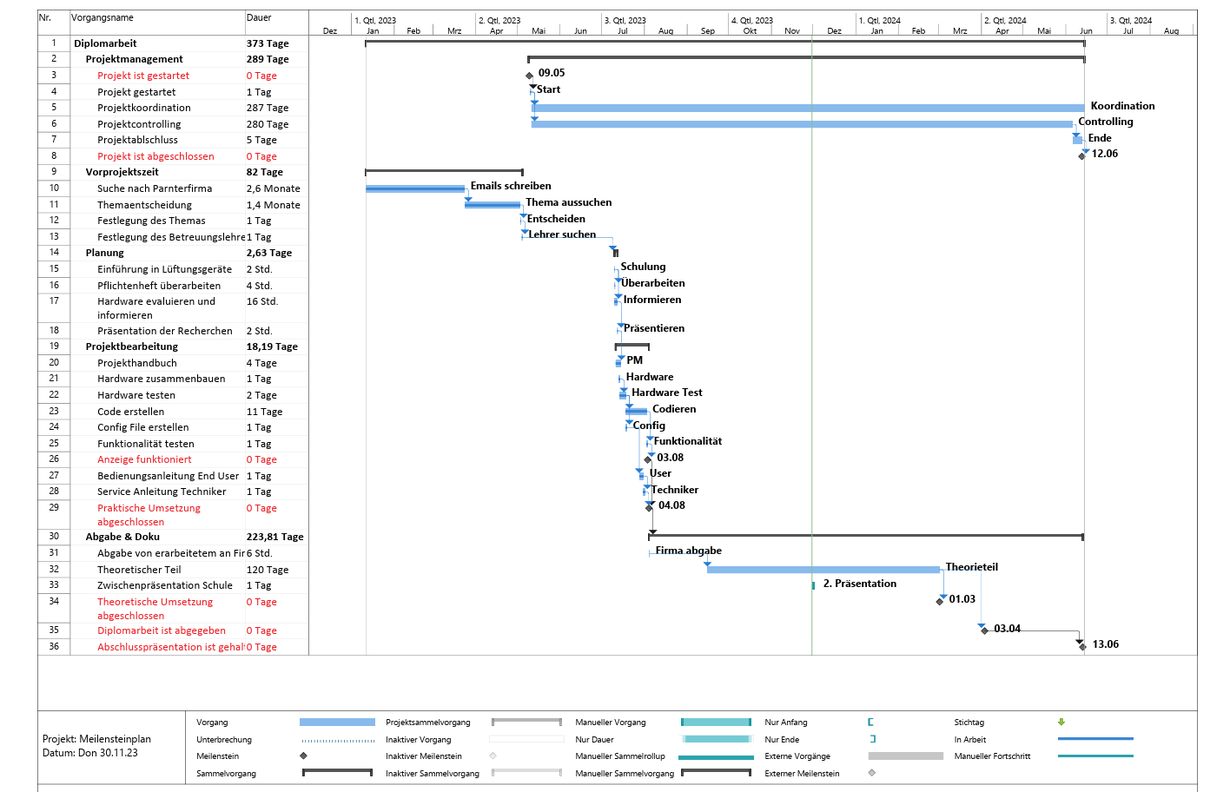
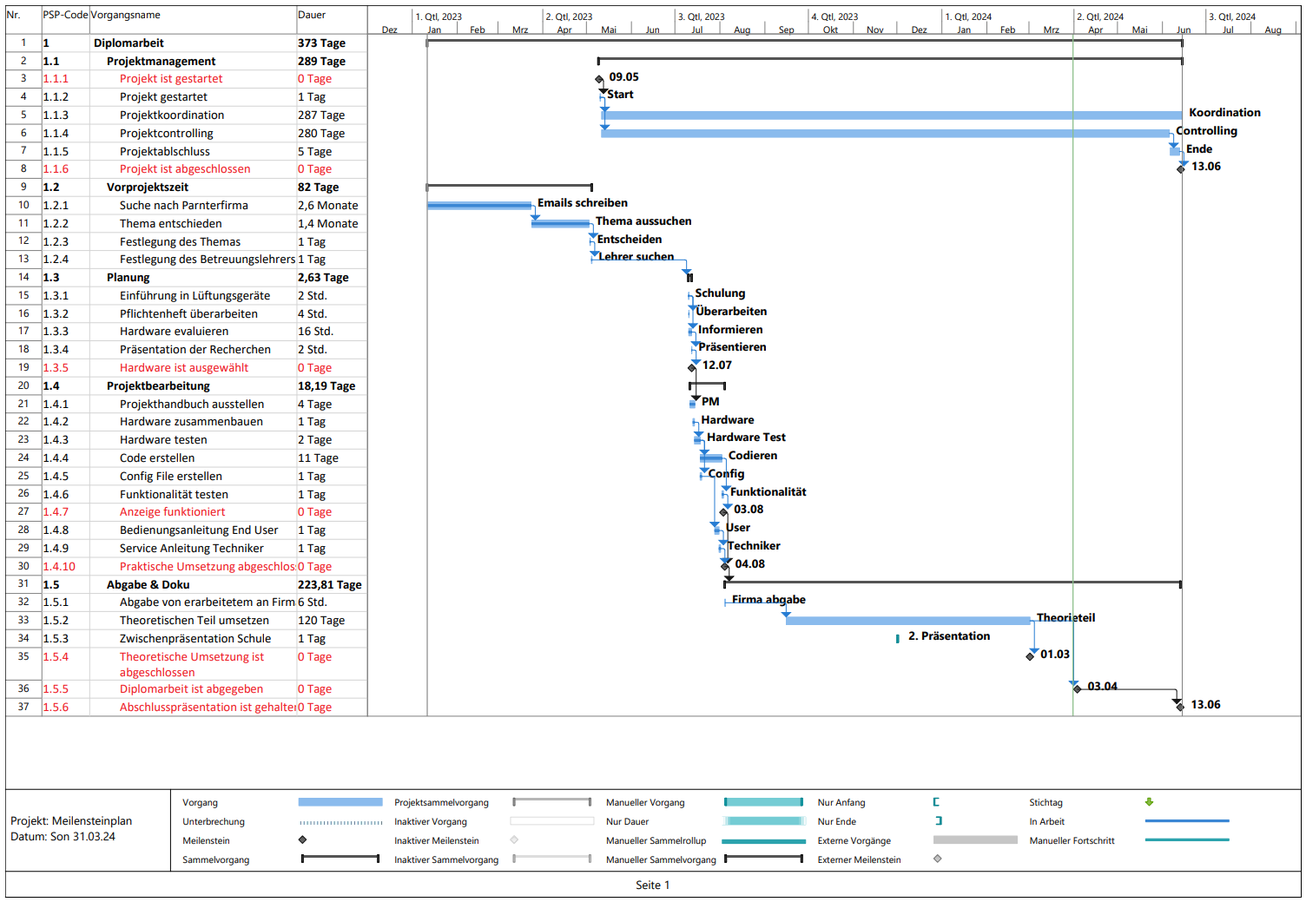
überarbeitung

Changed region(s): [[0.0, 0.0, 1.0, 1.0], [0.6525, 0.7675, 0.6836, 0.7982]]

diff --git a/hw_evaluation.tex b/hw_evaluation.tex
@@ -1,11 +1,11 @@
-\subsection{Evaluierung} \label{evaluierung}
-Damit die Ausarbeitung beginnen kann, muss eine gute Kombination für die zukünftigen Hardware-Komponenten zusammengestellt werden. Diese Kombination sollte auf den Spezifikationen basieren, die vom Projektbetreuer Simon Köldorfer definiert wurden. Diese Spezifikationen umfassen die grundsätzliche Verwendung eines Displays, die IP66-Tauglichkeit des Gehäuses, die Witterungstauglichkeit der Anzeige sowie die Möglichkeit, die Anzeigeseite zu ändern, wobei nicht spezifiziert ist, wie dies umgesetzt werden soll. Die Spannungsversorgung muss außerdem als 24V AC/DC ausgeführt sein. Schließlich sollte die Lösung auch wirtschaftlich sinnvoll sein, falls das Unternehmen entscheidet, diese Anzeige fortan an mehreren oder sogar allen Lüftungsgeräten anzubringen. Die genaueren Spezifikationen befinden sich im Kapitel \ref{aufgabenstellung}.\\
-Trotz dieser Definitionen blieb genug Freiheit, um mehrere Möglichkeiten zusammenzustellen und somit dem nachzugehen, was für diese Diplomarbeit am passendsten ist. 
+\subsection{Evaluation} \label{evaluierung}
+Damit die Ausarbeitung beginnen kann, muss eine gute Kombination für die zukünftigen Hardware-Komponenten zusammengestellt werden. Diese Kombination sollte auf den Spezifikationen basieren, die vom Projektbetreuer Simon Köldorfer definiert wurden. Diese Spezifikationen umfassen die grundsätzliche Verwendung eines Displays, die IP66-Tauglichkeit des Gehäuses sowie die Möglichkeit, die Anzeigeseite zu ändern, wobei nicht spezifiziert ist, wie dies umgesetzt werden soll. Die Spannungsversorgung muss außerdem als 24V AC/DC ausgeführt sein. Schließlich sollte die Lösung auch wirtschaftlich sinnvoll sein, falls das Unternehmen entscheidet, diese \acs{rltanzeige} fortan an mehreren oder sogar allen \acsp{rltanlage} anzubringen. Die genaueren Spezifikationen befinden sich in Kapitel \ref{aufgabenstellung}.\\
+Trotz dieser Definitionen bleibt genug Freiheit, um mehrere Möglichkeiten zusammenzustellen und somit dem nachzugehen, was für dieses Projekt am passendsten ist. 
 Folgend werden alle vier Varianten gelistet, die später auch so innerhalb eines Meetings dem Projektbetreuer näher gebracht wurden. \\
-Allgemein zu sagen ist, dass die angegebenen Preise möglicherweise von der Realität etwas abweichen können. Auch, dass die Schwierigkeit der Umsetzungen jeweils bei einem akzeptablen Level liegt und bei allen Varianten die Terminierung oder die Weiterleitung des Modbus-Signals ein Problem sein könnte.
+Allgemein ist zu sagen, dass die angegebenen Preise möglicherweise von der Realität etwas abweichen können. Auch, dass die Schwierigkeit der Umsetzungen jeweils bei einem akzeptablen Niveau liegt und bei allen Varianten die Terminierung oder die Weiterleitung des Modbus-Signals ein Problem sein könnte.
 \paragraph{Variante A}
-Die erste Variante beinhaltet als einzige den Mikrocontroller Arduino. Genauer gesagt handelt es sich um den Arduino Mega. Unter Abbildung \ref{fig:arduino_mega} findet man eine Darstellugn davon. Bei dieser Variante ist die Grundidee, ein kleines 3.5-Zoll Display mit 1-2 Buttons herzustellen und alles in einer IP66 tauglichen, kleinen Box zu verstauen. 
-Die positiven Aspekte dieser Variante beziehen sich sowohl auf den Preis als auch auf die Verfügbarkeit der Teile. Variante A hat mit Abstand den niedrigsten Gesamtpreis, dieser liegt bei ungefähr 63,00€ und die Verfügbarkeit ist stets gegeben. Auch die Haltbarkeit ist ein positiver Aspekt, da jegliche Witterungen dem Gehäuse nichts ausmachen, und im Fall, dass es doch kaputtgeht, es leicht und günstig zu ersetzen ist. Schwierigkeiten existieren jedoch beispielsweise bei der Benutzerfreundlichkeit, da die Bedienung mit 2 Buttons komplizierter bzw. umfangreicher ist als mit einem. Auch bei den Dokumentationen mangelt es etwas, denn während ausreichend Dokumentationen über die Hardware zur Verfügung steht, sind die Dokumentationen über die Software bzw. über die Libraries eher kurz gehalten, wie beispielsweise bei der Library \enquote{ModbusMaster}.
+Die erste Variante beinhaltet als einzige den Arduino Mikrocontroller. Genauer gesagt handelt es sich um den Arduino Mega (siehe Abb. \ref{fig:arduino_mega}). Bei dieser Variante ist die Grundidee, ein kleines 3,5-Zoll Display mit 1-2 Tastern herzustellen und alles in einer IP66 tauglichen, kleinen Box zu verstauen. 
+Die positiven Aspekte dieser Variante beziehen sich sowohl auf den Preis als auch auf die Verfügbarkeit der Teile. Variante A hat mit Abstand den niedrigsten Gesamtpreis, dieser liegt bei ungefähr 63,00€ und die Verfügbarkeit ist stets gegeben. Auch die Haltbarkeit ist ein positiver Aspekt, da jegliche Witterungen dem Gehäuse nichts ausmachen, und im Fall, dass es doch kaputt geht, es leicht und günstig zu ersetzen ist. Schwierigkeiten existieren jedoch beispielsweise bei der Benutzerfreundlichkeit, da die Bedienung mit 2 Tastern komplizierter bzw. umfangreicher als mit einem ist. Auch bei den Dokumentationen mangelt es etwas, denn während ausreichend Dokumentationen über die Hardware zur Verfügung steht, sind die Dokumentationen über die Software bzw. über die Bibliotheken eher kurz gehalten, wie beispielsweise bei der Bibliothek \enquote{ModbusMaster}.
 \begin{figure}[ht]
 	\centering
 	\includegraphics[width=0.5\linewidth]{Bilder/ARDUINO_MEGA.jpg}
@@ -13,8 +13,8 @@ Die positiven Aspekte dieser Variante beziehen sich sowohl auf den Preis als auc
 	\label{fig:arduino_mega}
 \end{figure}
 \paragraph{Variante B}
-Variante B hat als Grundkonzept ein 7-Zoll-Display, welches nicht berührungsempfindlich ist und auch nicht wasserfest, und deswegen wie in Variante A in eine witterungsfeste Box gelegt und durch Buttons gesteuert wird. Neben den unterschiedlichen Bildschirmgrößen unterscheidet auch der verwendete Mikrocontroller die beiden Kombinationen, denn hier wird ein Raspberry PI als Zentralrechner etabliert. Eine Abbildung davon ist in Abbildung \ref{fig:raspi3} zu sehen.\\
-Der Gesamtpreis der Hardware liegt bei ungefähr 93.00€ und ist somit auch noch eine der günstigeren Versionen. Für diese Variante sprechen aber noch andere Faktoren. Einerseits die erhöhte Benutzerfreundlichkeit im Vergleich zur Variante A, denn auch wenn wieder Buttons für die Navigation verwendet werden, erleichtert das größere Display die Übersicht. Andererseits die Witterungsfestigkeit aufgrund des Gehäuses, welches bei Schäden leicht und günstig zu ersetzen ist. Auch Dokumentationen sind ausreichend für Hardware und Software vorhanden. Die Probleme hierbei beziehen sich jedoch auf die Verfügbarkeit des Raspberry PIs, da diese in letzter Zeit entweder wenig verfügbar oder teuer sind. Der Display-Preis ist zwar auch nicht niedrig, kann aber durch Mengenrabatte reduziert werden.
+Variante B hat als Grundkonzept ein 7-Zoll Display, welches nicht berührungsempfindlich ist und auch nicht wasserfest, und deswegen wie in Variante A in eine witterungsfeste Box gelegt und durch Taster gesteuert wird. Neben den unterschiedlichen Bildschirmgrößen unterscheidet auch der verwendete Mikrocontroller die beiden Kombinationen, denn hier wird ein Raspberry PI als Zentralrechner etabliert (siehe Abb. \ref{fig:raspi3}).\\
+Der Gesamtpreis der Hardware liegt bei ungefähr 93.00€ und ist somit auch noch eine der günstigeren Versionen. Für diese Variante sprechen aber noch andere Faktoren. Einerseits die erhöhte Benutzerfreundlichkeit im Vergleich zur Variante A, denn auch wenn wieder Taster für die Navigation verwendet werden, erleichtert das größere Display die Übersicht. Andererseits die Witterungsfestigkeit aufgrund des Gehäuses, welches bei Schäden leicht und günstig zu ersetzen ist. Auch Dokumentationen sind ausreichend für Hardware und Software vorhanden. Die Probleme hierbei beziehen sich jedoch auf die Verfügbarkeit des Raspberry PIs, da diese in letzter Zeit entweder wenig verfügbar oder teuer sind. Der Display-Preis ist zwar auch nicht niedrig, kann aber durch Mengenrabatte reduziert werden.
 \begin{figure}[ht]
 	\centering
 	\includegraphics[width=0.6\linewidth]{Bilder/RASPBERRY_PI3.png}
@@ -22,7 +22,7 @@ Der Gesamtpreis der Hardware liegt bei ungefähr 93.00€ und ist somit auch noc
 	\label{fig:raspi3}
 \end{figure}
 \paragraph{Variante C}
-Die dritte Variante ist die mit Abstand teuerste, denn hier liegt der Preis bei etwa 117,00€. Der Grund dafür ist, dass die Konzeption aus einem \gls{kapazitiv}n 7-Zoll-Display besteht. Dieses wird unter Abbildung \ref{fig:kapazitives_display} abgebildet. Neben der eigentlich nicht gegebenen Witterungsfestigkeit des Displays per se, wird es jedoch so verbaut, dass diese Eigenschaft trotzdem gegeben ist. Dennoch kann sich möglicherweise die Handhabung der Touchfunktion mit der Zeit aufgrund fehlender Wasserfestigkeit verschlechtern. Da auch hier wieder der Raspberry PI die Grundlage des Systems spielt, ist auch wieder die Verfügbarkeit dessen unpassend. Positive Aspekte sind allgemein die Touchfunktion, da diese weit verbreitet ist und die Bedienung für den Nutzer einfach hält. Ebenso gibt es ausreichend Dokumentationen für Hardware und Software, trotzdem kann die Implementation der Touch-Funktion Probleme bereiten.
+Die dritte Variante ist die mit Abstand teuerste, denn hier liegt der Preis bei etwa 117,00€. Der Grund dafür ist, dass die Konzeption aus einem \gls{kapazitiv}n 7-Zoll Display besteht (siehe Abb. \ref{fig:kapazitives_display}). Neben der eigentlich nicht gegebenen Witterungsfestigkeit des Displays per se, wird es jedoch so verbaut, dass diese Eigenschaft trotzdem gegeben ist. Dennoch kann sich möglicherweise die Handhabung der Touchfunktion mit der Zeit aufgrund fehlender Wasserfestigkeit verschlechtern. Da auch hier wieder der Raspberry PI die Grundlage des Systems spielt, ist auch wieder die Verfügbarkeit dessen unpassend. Positive Aspekte sind allgemein die Touchfunktion, da diese weit verbreitet ist und die Bedienung für den Nutzer einfach hält. Ebenso gibt es ausreichend Dokumentationen für Hardware und Software, trotzdem kann die Implementation der Touch-Funktion Probleme bereiten.
 \begin{figure}[ht]
 	\centering
 	\includegraphics[width=0.6\linewidth]{Bilder/kapazitives_display.jpg}
@@ -31,17 +31,17 @@ Die dritte Variante ist die mit Abstand teuerste, denn hier liegt der Preis bei 
 \end{figure}
 \newpage
 \paragraph{Variante D}
-Die vierte und letzte Variante charakterisiert sich durch eine weitere Nutzung eines \gls{kapazitiv}n oder diesmal auch \gls{resistiv}n 7-Zoll-Displays, welches nicht wasserdicht ist. Der Zugriff zum Display erfolgt durch eine transparente Klappe am Gehäuse. Eine Abbildung dieses Gehäuses befindet sich unter Abbildung \ref{fig:gehäuse_mit_klappe}. Auch hier wird der Raspberry PI als Mikrocontroller verwendet, welches auf zuvor genannte Probleme bezüglich der Verfügbarkeit zurückführt. Das Display zu erhalten führt zu keinen Schwierigkeiten und man erhält auch wieder einen Mengenrabatt. Nichtsdestotrotz liegt der Gesamtpreis bei ungefähr 108,00€ und ist somit eine der teureren Zusammenstellungen. Dafür stellen Witterungsprobleme keine Erschwernisse dar, solange nicht vergessen wird, die Klappe am Gehäuse immer ordnungsgemäß zu schließen. Die Situation mit den Dokumentationen ist äquivalent zu Variante B und C und somit auch kein Problem. Zurückkehrend auf die unterschiedlichen Displays: Die \gls{kapazitiv} Version hat eine allgemein besser funktionierende Touch-Funktion, die aber durch nasse Hände genommen wird und somit die Nutzung bei beispielsweise Regen erschwert wird. Die \gls{resistiv} Version ermöglicht dafür eine besseren Reaktionsfähigkeit bei nassen Händen oder sogar beim Tragen von Handschuhen.
+Die vierte und letzte Variante charakterisiert sich durch eine weitere Nutzung eines \gls{kapazitiv}n oder diesmal auch \gls{resistiv}n 7-ZollDisplays, welches nicht wasserdicht ist. Der Zugriff zum Display erfolgt durch eine transparente Klappe am Gehäuse (siehe Abb.  \ref{fig:gehäuse_mit_klappe}). Auch hier wird der Raspberry PI als Mikrocontroller verwendet, welches auf zuvor genannte Probleme bezüglich der Verfügbarkeit zurückführt. Das Display zu erhalten führt zu keinen Schwierigkeiten und es ist auch wieder ein Mengenrabatt gegeben. Nichtsdestotrotz liegt der Gesamtpreis bei ungefähr 108,00€ und ist somit eine der teureren Zusammenstellungen. Dafür stellen Witterungsprobleme keine Erschwernisse dar, solange nicht vergessen wird, die Klappe am Gehäuse immer ordnungsgemäß zu schließen. Die Situation mit den Dokumentationen ist äquivalent zu Variante B und C und somit auch kein Problem. Zurückkehrend auf die unterschiedlichen Displays: Die \gls{kapazitiv} Version hat eine allgemein besser funktionierende Touch-Funktion, die aber durch nasse Hände beeinträchtigt wird und somit die Nutzung bei Regen erschwert. Die \gls{resistiv} Version ermöglicht dafür eine besseren Reaktionsfähigkeit bei nassen Händen oder sogar beim Tragen von Handschuhen.
 \begin{figure}[ht]
 	\centering
-	\includegraphics[width=0.6\linewidth]{Bilder/gehäuse_klappe.png}
+	\includegraphics[width=0.5\linewidth]{Bilder/gehäuse_klappe.png}
 	\caption{Gehäuse mit Klappe (Quelle: \url{https://asset.conrad.com/media10/isa/160267/c1/-/de/706888_BB_00_FB/image.jpg?x=1000&y=1000&format=jpg&ex=1000&ey=1000&align=center})}
 	\label{fig:gehäuse_mit_klappe}
 \end{figure}
 \newpage
 \paragraph{Bewertungsmatrix}
 
-Um eine umfassende Übersicht über die potenziell verfügbaren Varianten sowie ihre spezifischen Merkmale sicherzustellen, wurde eine detaillierte Bewertungsmatrix in Excel erstellt. Diese Matrix befindet sich auf der nächsten Seite unter Abbildung \ref{fig:matrix}.
+Um eine umfassende Übersicht über die potenziell verfügbaren Varianten sowie ihre spezifischen Merkmale sicherzustellen, wurde eine detaillierte Bewertungsmatrix in Excel erstellt (siehe Abb. \ref{fig:matrix}).
 \begin{landscape}
 	\begin{figure}[H]
 		\centering

diff --git a/probleme.tex b/probleme.tex
@@ -2,9 +2,9 @@ Eine Normalität während der Ausarbeitung eines Projektes sind auftretende Prob
 
 \begin{enumerate}
 
-	\item \textbf{Hardware:} Nachdem die Hardwareevaluierung abgeschlossen und die Entscheidung dem Projektbetreuer Simon Köldorfer mitgeteilt wurde, wurde dem Team eine Anzahl an Raspberry PIs, SD-Karten und ein Display zur Verfügung gestellt, um bereits während des Wartens auf die eigentlichen Komponenten, mit teilweise erhöhten Lieferzeiten, bereits arbeiten zu können. Relativ schnell wurde festgestellt, dass auf der einen SD-Karte nur eine veraltete Version von Python installierbar war und auf der anderen die Python-Version zwar auf die derzeit neueste aktualisiert werden konnte, aber das Display aus unbekannten Gründen nicht damit kompatibel war. Da nun die SD-Karte mit der veralteten Version ausgeschlossen wurde, musste eine Lösung für die andere gefunden werden. Mit der Applikation \enquote{Real VNC Viewer} konnte, ohne Verwendung des Displays, auf den Raspberry PI zugegriffen werden. So wurde mit dem Programm als Anzeigelösung gearbeitet, bis das eigentlich gewünschte Display die Firma erreicht und auch funktionierende SD-Karten zur Verfügung standen. Nach wenigen Tagen wurde dann ein weiteres Problem bemerkt, denn der Raspberry PI konnte übergangslos keine WLAN-Verbindung mehr herstellen. Dies zwang dazu, auf eine außergewöhnliche Methode umzusteigen, damit der Zugriff auf den Raspberry PI gewährt werden konnte. Durch die Verwendung mehrerer Ethernetkabel, die mit dem Mikrocontroller, den Laptops und einem Switch verbunden wurden, konnte der Zugriff mittels des Programmes \enquote{PuTTy} gewährt werden.
-	\item \textbf{Lieferung der Komponenten:} Bevor die gewünschte und erwartete Hardware in der Firma eintraf, wurde der Code bereits passend für das eigentlich bestellte Display geschrieben. Aufgrund von Komplikationen konnte besagtes Gerät nicht beschaffen werden, was dazu führte, dass der Code vollständig überarbeitet werden musste. Zudem wurde das neue Display über \ac{hdmi} an den Paspberry PI angeschlossen und nicht über \ac{gpio}, wie es bei dem gewünschten Display gewesen wäre. Diese unerwarteten Veränderungen haben die Entwicklungszeit verlängert und erforderten zusätzliche Anpassungen.
-	\item \textbf{Modbus-Auslesung:} Ein weiteres Problem wurde bei der Auslesung der Modbus-Daten festgestellt. Obwohl das Lesen der Temperatur- und Drucksensoren schnell und akkurat sowohl in \enquote{Shortbus} als auch im Code funktionierte, wurde ein Hindernis bei den Ventilatoren angetroffen, da hier hexadezimale Zahlen bei den Modbusregistern verwendet wurden und somit auch im eben genannten Programm einige Einstellungen geändert werden mussten. Nach langer Suche nach den richtigen Einstellungen konnte nun endlich ein weiterer Erfolg verzeichnet werden. Als dann der Code am Lüftungsgerät ausprobiert wurde, stieß man auf ein weiteres Problem in dieser Thematik. Im Code befand sich fälschlicherweise eine Zeile, die zwar passend für Druck- und Temperatursensoren war, aber nicht für die Ventilatoren. Bevor diese Zeile gefunden wurde und der Code sowie die Datenauslesung einwandfrei funktionieren konnten, wurde die Suche vergebens nach neuen Modbus-Libraries gestartet.
-	\item \textbf{Modbus-Adapter und Gehäuse:} Im Zusammenhang mit der Hardware traten zwei zusätzliche Probleme auf, die den Abschluss des praktischen Teils verzögerten. Aufgrund von Lieferschwierigkeiten mit dem Display wurde eine Alternative beschafft, die jedoch ebenfalls Komplikationen mit sich brachte, da sie seitlich statt unten angeschlossen wurde. Dies führte dazu, dass das zuvor ausgewählte Gehäuse zu klein war. Die Firma Bösch entschied sich, das richtige Gehäuse selbst per 3D-Drucker herzustellen. Zudem gab es eine Herausforderung mit dem RS485-Adapter für den Raspberry Pi, welche erst bei der Rückkehr in die Firma nach Beendigung des Praktikums gelöst werden konnte, indem andere Adapter dieser Art getestet wurden.
+	\item \textbf{Hardware:} Nachdem die Hardwareevaluierung abgeschlossen und die Entscheidung dem Projektbetreuer Simon Köldorfer mitgeteilt wurde, wurde dem Team eine Anzahl an Raspberry PIs, SD-Karten und ein Display zur Verfügung gestellt, um bereits während des Wartens auf die eigentlichen Komponenten, mit teilweise erhöhten Lieferzeiten, bereits arbeiten zu können. Relativ schnell wurde festgestellt, dass auf der einen SD-Karte nur eine veraltete Version von \gls{gls_python} installierbar war und auf der anderen die \gls{gls_python}-Version zwar auf die derzeit neueste aktualisiert werden konnte, aber das Display aus unbekannten Gründen nicht damit kompatibel war. Da nun die SD-Karte mit der veralteten Version ausgeschlossen wurde, musste eine Lösung für die andere gefunden werden. Mit der Applikation \enquote{Real \gls{gls_vnc} Viewer} konnte, ohne Verwendung des Displays, auf den Raspberry PI zugegriffen werden. So wurde mit dem Programm als Anzeigelösung gearbeitet, bis das eigentlich gewünschte Display die Firma erreicht und auch funktionierende SD-Karten zur Verfügung standen. Nach wenigen Tagen wurde dann ein weiteres Problem bemerkt, denn der Raspberry PI konnte übergangslos keine WLAN-Verbindung mehr herstellen. Dies zwang dazu, auf eine außergewöhnliche Methode umzusteigen, damit der Zugriff auf den Raspberry PI gewährt werden konnte. Durch die Verwendung mehrerer Ethernetkabel, die mit dem Mikrocontroller, den Laptops und einem Switch verbunden wurden, konnte der Zugriff mittels des Programmes \enquote{PuTTy} gewährt werden.
+	\item \textbf{Lieferung der Komponenten:} Bevor die gewünschte und erwartete Hardware in der Firma eintraf, wurde der Code bereits passend für das eigentlich bestellte Display geschrieben. Aufgrund von Komplikationen konnte besagtes Gerät nicht beschaffen werden, was dazu führte, dass der Code vollständig überarbeitet werden musste. Zudem wurde das neue Display über \ac{hdmi} an den Raspberry PI angeschlossen und nicht über \ac{gpio}, wie es bei dem gewünschten Display gewesen wäre. Diese unerwarteten Veränderungen haben die Entwicklungszeit verlängert und erforderten zusätzliche Anpassungen.
+	\item \textbf{\gls{modbus}-Auslesung:} Ein weiteres Problem wurde bei der Auslesung der \gls{modbus}-Daten festgestellt. Obwohl das Lesen der Temperatur- und Drucksensoren schnell und akkurat sowohl in \enquote{Shortbus} als auch im Code funktionierte, wurde ein Hindernis bei den Ventilatoren angetroffen, da hier hexadezimale Zahlen bei den Modbusregistern verwendet wurden und somit auch im eben genannten Programm einige Einstellungen geändert werden mussten. Nach langer Suche nach den richtigen Einstellungen konnte nun endlich ein weiterer Erfolg verzeichnet werden. Als dann der Code am Lüftungsgerät ausprobiert wurde, stieß man auf ein weiteres Problem in dieser Thematik. Im Code befand sich fälschlicherweise eine Zeile, die zwar passend für Druck- und Temperatursensoren war, aber nicht für die Ventilatoren. Bevor diese Zeile gefunden wurde und der Code sowie die Datenauslesung einwandfrei funktionieren konnten, wurde die Suche vergebens nach neuen \gls{modbus}-Bibliotheken gestartet.
+	\item \textbf{\gls{modbus}-Adapter und Gehäuse:} Im Zusammenhang mit der Hardware traten zwei zusätzliche Probleme auf, die den Abschluss des praktischen Teils verzögerten. Aufgrund von Lieferschwierigkeiten mit dem Display wurde eine Alternative beschafft, die jedoch ebenfalls Komplikationen mit sich brachte, da sie seitlich statt unten angeschlossen wurde. Dies führte dazu, dass das zuvor ausgewählte Gehäuse zu klein war. Die Firma Bösch entschied sich, das richtige Gehäuse selbst per 3D-Drucker herzustellen. Zudem gab es eine Herausforderung mit dem \gls{gls_rs485}-Adapter für den Raspberry Pi, welche erst bei der Rückkehr in die Firma nach Beendigung des Praktikums gelöst werden konnte, indem andere Adapter dieser Art getestet wurden.
 	\item \textbf{Kommunikation:} Dadurch, dass das Pflichtenheft nicht direkt von Anfang an sorgfältig bearbeitet und unterschrieben wurde, konnte nicht verhindert werden, dass in internen Meetings weitere Spezifikationen und Anforderungen an das Projekt hinzugefügt wurden, welche zusätzlichen Aufwand und Verzögerungen mit sich brachten. Bezüglich Meetings hätte auch das Design-Meeting viel früher passieren müssen, denn es wurde erst im späteren Projektverlauf klar, welche Werte tatsächlich auf dem Display angezeigt werden sollten. Beide genannten Punkte hätten vermieden werden könne, wenn die Kommunikation mit dem Projektbetreuer aktiver gewesen wäre.
 \end{enumerate}

diff --git a/hw_selektion.tex b/hw_selektion.tex
@@ -3,12 +3,12 @@
 Die im Kapitel \ref{evaluierung} auf der Grundlage der Recherche erstellten Varianten mussten während eines Meetings dem Projektleiter und einer externen Person präsentiert werden. Ziel war es, die Varianten zu analysieren und festzustellen, welche für die praktische Umsetzung sinnvoll sind und auch wirtschaftlich vertretbar erscheinen. Im Folgenden befindet sich eine kurze Beschreibung der jeweiligen Varianten in Kombination mit den im Meeting angemerkten Punkten.
 
 \begin{itemize}
-	\item \underline{Variante A:} Hier ist ein etwas kleineres Display in Verwendung, genauer gesagt ein 3.5-Zoll-Display, mit einem Chipsatz, der anders als bei den anderen Varianten ist, nämlich der Arduino Mega. Für diese Umsetzung muss eine Platine zwischen Display und Board erstellt werden für die Pins, demnach ist es nicht besonders effizient erweiterbar wie beispielsweise bei dem Raspberry PI. Bei dieser Version wird alles in einem IP66 geschützten Gehäuse verbaut und mit Buttons gesteuert. Laut Simon Köldorfer sei diese Methode sinnvoller und einfacher als bei der Nutzung eines Touchscreens, da dieser zu viele Funktionen für eine schlichte Anzeige habe und auch nicht sehr geeignet für bestimmte Wetterkonditionen sei. \\
+	\item \underline{Variante A:} Hier ist ein etwas kleineres Display in Verwendung, genauer gesagt ein 3,5-Zoll Display, mit einem Chipsatz, der anders als bei den anderen Varianten ist, nämlich der Arduino Mega. Für diese Umsetzung muss eine Platine zwischen Display und Board erstellt werden für die Pins, demnach ist es nicht besonders effizient erweiterbar wie beispielsweise bei dem Raspberry PI. Bei dieser Version wird alles in einem IP66 geschützten Gehäuse verbaut und mit Buttons gesteuert. Laut Simon Köldorfer sei diese Methode sinnvoller und einfacher als bei der Nutzung eines Touchscreens, da dieser zu viele Funktionen für eine schlichte Anzeige habe und auch nicht sehr geeignet für bestimmte Wetterkonditionen sei. \\
 	Aufgrund der begrenzten Verfügbarkeit von Libraries für die Benutzeroberfläche auf dem Arduino wird das Erscheinungsbild mit der vom Projektteam ausgewählten Library weniger ansprechend sein. Diese Library bietet lediglich die Möglichkeit, mit Texten, Rechtecken, Linien und Kreisen eine Benutzeroberfläche zu kreieren.
-	\item \underline{Variante B:} Diese Kombination an Hardware-Komponenten ist der Favorit des Projektteams. Hier wird ein größeres Display mit 7-Zoll und einem Raspberry PI 3 als Chipsatz verwendet. Die Gesamtheit wird wieder in einer IP66-tauglichen Box verstaut. Diese Variante ist zwar teurer als die erste, dafür kann die Umsetzung schöner realisiert werden. Auch kann man sich die RS323-Schnittstelle sparen, da man stattdessen einen USB-Port zur Verfügung hat.
+	\item \underline{Variante B:} Diese Kombination an Hardware-Komponenten ist der Favorit des Projektteams. Hier wird ein größeres Display mit 7-Zoll und einem Raspberry PI 3 als Chipsatz verwendet. Die Gesamtheit wird wieder in einer IP66-tauglichen Box verstaut. Diese Variante ist zwar teurer als die erste, dafür kann die Umsetzung schöner realisiert werden. Auch kann man sich die \gls{gls_rs485}-Schnittstelle sparen, da man stattdessen einen USB-Port zur Verfügung hat.
 	\item \underline{Variante C:} Variante C ist gleich zu Variante A, nur dass ein Touchdisplay implementiert wird, wodurch auch Einsparungen am Gehäuse erfolgen. Diese Einsparung kann jedoch zu Problemen mit bestimmten Witterungen wie zu starker Sonneneinstrahlung, Regen, usw. führen. 
     Es gibt zwar auch andere, widerstandsfähigere Industriedisplays, diese sind aber auch deutlich teurer und bereits ohne das handelt es sich hier um die teuerste Variante, die zusätzlich nicht wasserfest ist.
-	\item \underline{Variante D:} Hier handelt es sich um dasselbe Konzept wie in Variante C, nur dass eine Klappe implementiert ist. Diese muss immer geöffnet werden, wenn durch die Werte gescrollt werden will, was nicht sehr praktisch ist, da diese bei zu öfter Verwendung kaputtgehen kann. Auch ist hier die Witterung wieder ein Thema, da das Display bei Regen beispielsweise durch die nicht vorhandene Wasserfestigkeit einen Schaden erhalten kann.
+	\item \underline{Variante D:} Hier handelt es sich um dasselbe Konzept wie in Variante C, nur dass eine Klappe implementiert ist. Diese muss immer geöffnet werden, wenn durch die Werte gescrollt werden will, was nicht sehr praktisch ist, da diese bei zu ofter Verwendung kaputtgehen kann. Auch ist hier die Witterung wieder ein Thema, da das Display bei Regen beispielsweise durch die nicht vorhandene Wasserfestigkeit einen Schaden erhalten kann.
 \end{itemize}
 
 \paragraph{Endgültige Entscheidung}

diff --git a/projektmeilensteinplan.tex b/projektmeilensteinplan.tex
@@ -1,4 +1,4 @@
-Zur Überprüfung, ob ein Projekt möglicherweise nicht zur richtigen Zeit beendet wird, kann der Meilensteinplan als Maßstab dienen. Er bildet die wichtigsten Ereignisse inklusive einer Deadline ab. So erhält man eine grobe Übersicht über Verzögerungen und es können Maßnahmen bei Bedarf ergriffen werden. Im Allgemeinen dient er aber auch der Mitarbeitermotivation bei Erreichen eines Zwischenziels oder Meilensteins \cite[vgl.][]{domendos:2016}. \\
+Zur Überprüfung, ob ein Projekt möglicherweise nicht zur richtigen Zeit beendet wird, kann der Meilensteinplan als Maßstab dienen. Er bildet die wichtigsten Ereignisse inklusive einer Deadline ab. So erhält man eine grobe Übersicht über Verzögerungen und es können Maßnahmen bei Bedarf ergriffen werden. Im Allgemeinen dient er aber auch der Mitarbeitermotivation beim Erreichen eines Zwischenziels oder Meilensteins \cite[vgl.][]{domendos:2016}. \\
 In der folgenden Tabelle \ref{tab:meilensteinplan} befinden sich die Meilensteine inklusive deren Termine.
 
 \begin{table}[H]
@@ -6,19 +6,21 @@ In der folgenden Tabelle \ref{tab:meilensteinplan} befinden sich die Meilenstein
 	\label{tab:meilensteinplan}
 	\begin{tabular}{p{\dimexpr 0.10\textwidth-2\tabcolsep} | p{0.30\textwidth} | p{0.15\textwidth} | p{0.15\textwidth} | p{0.15\textwidth}}
 		\toprule
-		\textbf{PSP-Code} & \textbf{Meilenstein} & \textbf{Basis-Termine} & \textbf{Aktuelle Plantermine} & \textbf{Ist Termine} \\
+		\textbf{PSP-Code} & \textbf{Meilenstein} & \textbf{Basis-Termine} & \textbf{Plantermine} & \textbf{Ist-Termine} \\
 		\midrule
 		1.1.1 & M1 Projekt ist gestartet & 09.05.2023 & 09.05.2023 & 09.05.2023 \\
+	  \midrule
+		1.3.5 & M2 Hardware ist ausgewählt & 11.07.2023 & 12.07.2023 & 12.07.2023 \\	
+        \midrule
+		1.4.7 & M3 Anzeige funktioniert & 02.08.2023 & 03.08.2023 & 03.08.2023 \\
 		\midrule
-		1.4.7 & M2 Anzeige funktioniert & 02.08.2023 & 03.08.2023 & 03.08.2023 \\
+		1.4.10 & M4 Praktische Umsetzung abgeschlossen & 03.08.2023 & 04.08.2023 & 04.08.2023 \\
 		\midrule
-		1.4.10 & M3 Praktische Umsetzung abgeschlossen & 03.08.2023 & 04.08.2023 & 04.08.2023 \\
+		1.5.4 & M5 Theoretische Umsetzung abgeschlossen & 01.03.2024 & 01.03.2024 & 01.03.2024 \\
 		\midrule
-		1.5.4 & M4 Theoretische Umsetzung abgeschlossen & 01.03.2024 & 01.03.2024 & 01.03.2024 \\
+		1.5.5 & M6 Diplomarbeit ist abgegeben & 03.04.2024 & 03.04.2024 & 03.04.2024 \\
 		\midrule
-		1.5.5 & M5 Diplomarbeit ist abgegeben & 03.04.2024 & 03.04.2024 & 03.04.2024 \\
-		\midrule
-		1.5.6 & M6 Abschlusspräsentation ist gehalten & 13.06.2024 & 13.06.2024 & 13.06.2024 \\
+		1.5.6 & M7 Abschlusspräsentation ist gehalten & 13.06.2024 & 13.06.2024 & 13.06.2024 \\
 		\midrule
 		1.6 & M8 Projekt ist abgeschlossen & 13.06.2024 & 13.06.2024 & 13.06.2024 \\
 		\bottomrule

diff --git a/projektumweltanalyse.tex b/projektumweltanalyse.tex
@@ -1,4 +1,4 @@
-Damit in einem Projekt Veränderungen und Entwicklungen in Umwelten frühzeitig erkannt werden können, um richtig reagieren zu können, werden Umweltanalysen angefertigt. Hier werden die Umfelder nach verschiedenen Kriterien analysiert, die das Projekt auf eine gewisse Art beeinflussen. Das tatsächliche Ziel ist es, eine Übersicht über die Umwelten zu haben, um Handlungsempfehlungen ausgeben zu können. Im Marketing wird zwischen internen und externen Faktoren unterschieden. Die Einflussgröße der Umwelten werden mit \enquote{++}, \enquote{+}, \enquote{0}, \enquote{-} und \enquote{--} beschrieben, wobei \enquote{++} für sehr großen und \enquote{--} für sehr kleinen Einfluss steht. \cite[vgl.][]{Wikipedia:2023, Redaktion:2024}. \\
+Damit in einem Projekt Veränderungen und Entwicklungen in Umwelten frühzeitig erkannt werden können, um richtig reagieren zu können, werden Umweltanalysen angefertigt. Hier werden die Umfelder nach verschiedenen Kriterien analysiert, die das Projekt auf eine gewisse Art beeinflussen. Das tatsächliche Ziel ist es, eine Übersicht über die Umwelten zu haben, um Handlungsempfehlungen ausgeben zu können. Im Marketing wird zwischen internen und externen Faktoren unterschieden. Die Einflussgröße der Umwelten werden mit \enquote{++}, \enquote{+}, \enquote{0}, \enquote{-} und \enquote{--} beschrieben, wobei \enquote{++} für einen stark positiven und \enquote{--} für einen stark negativen Einfluss steht. \cite[vgl.][]{Wikipedia:2023, Redaktion:2024}. \\
 Die folgende Abbildung \ref{fig:umweltanalyse} beschreibt grob die um die Diplomarbeit herum existierenden Umwelten. Diese werden in der darunter liegenden Tabelle \ref{tab:umweltbeziehungen} nochmals aufgezählt und genauer geschildert.
 
 \begin{figure}[H]
@@ -37,5 +37,5 @@ Die folgende Abbildung \ref{fig:umweltanalyse} beschreibt grob die um die Diplom
 	\midrule
 	Kunde & + & kein Nutzen für den Kunden und es wird  kein Absatzmarkt gefunden & Anforderungen des Kunden verstehen und Kundenbedarf überprüfen \\
 	\midrule
-	Lieferant & + & Lieferverzögerungen oder Qualitätsprobleme & mehrere Lieferantenoptionen prüfen \\
+	Lieferant & + & Lieferverzögerungen oder Qualitätsprobleme & Mehrere Lieferantenoptionen prüfen \\
 \end{longtable}

diff --git a/projektstrukturplan.tex b/projektstrukturplan.tex
@@ -1,10 +1,10 @@
-Der Projektstrukturplan zeigt hierarchisch gegliedert alle plan- und kontrollierbaren Teilaufgaben. Diese Teilaufgaben entstehen dadurch, indem die Gesamtaufgabe des Projektes so lange in kleinere Arbeitspakete aufgeteilt wird, bis eine weitere Aufteilung nicht mehr sinnvoll wäre. Durch die hierarchische Struktur entstehen Ebenen, in die das Projekt aufgeteilt ist. Die oberste Ebene ist die Allgemeinheit des Projekts, betitelt mit dem Projektnamen. Darunter befinden sich die Phasen und unter diesen befinden sich besagte Arbeitspakete. Jeder dieser Punkte hat seinen eigenen, eindeutigen PSP-Code.
+Der Projektstrukturplan (PSP) zeigt hierarchisch gegliedert alle plan- und kontrollierbaren Teilaufgaben. Diese Teilaufgaben entstehen, indem die Gesamtaufgabe des Projektes so lange in kleinere Arbeitspakete aufgeteilt wird, bis eine weitere Aufteilung nicht mehr sinnvoll wäre. Durch die hierarchische Struktur entstehen Ebenen, in die das Projekt aufgeteilt ist. Die oberste Ebene ist die Allgemeinheit des Projekts, betitelt mit dem Projektnamen. Darunter befinden sich die Phasen und unter diesen befinden sich besagte Arbeitspakete. Jeder dieser Punkte hat seinen eigenen, eindeutigen PSP-Code.
 \\Der \enquote{PSP} stellt auch die Grundlage für weitere relevante Planungsschritte im Projektmanagement dar, wie beispielsweise Terminpläne, Ressourcenpläne und Kostenpläne \cite[vgl.][]{Kindl_Niels:2023}. \\
 Die darunterliegende Abbildung \ref{fig:projektstrukturplan} zeigt den existierenden \enquote{PSP} dieser Diplomarbeit.
 
 \begin{figure}[H]
 	\centering
-	\includegraphics[width=1\linewidth]{Bilder/projektstrukturplan.png}
+	\includegraphics[width=0.9\linewidth]{Bilder/projektstrukturplan.png}
 	\caption{Projektstukturplan}
 	\label{fig:projektstrukturplan}
 \end{figure}

diff --git a/projektorganigramm.tex b/projektorganigramm.tex
@@ -3,7 +3,7 @@ Die folgende Abbildung \ref{fig:organigramm} stellt die existierende, interne St
 
 \begin{figure}[H]
 	\centering
-	\includegraphics[width=0.9\linewidth]{Bilder/Organigramm}
+	\includegraphics[width=1\linewidth]{Bilder/Organigramm}
 	\caption{Projektorganigramm}
 	\label{fig:organigramm}
 \end{figure}
@@ -15,7 +15,7 @@ Die folgende Abbildung \ref{fig:organigramm} stellt die existierende, interne St
 		\toprule
 		\textbf{Projektrolle} & \textbf{Aufgabenbereich/Skills} & \textbf{Name} \\
 		\midrule
-		Projektauftraggeber & Gibt den Auftrag für die Universalananzeige und setzt Bedingungen und Ziele, die im Projekt erreicht werden sollen. Auch setzt er eine Fertigstellungsfrist & Walter Bösch GmbH und Co KG
+		Projektauftraggeber & Gibt den Auftrag für die Universalananzeige und setzt Bedingungen und Ziele, die im Projekt erreicht werden sollen. Auch setzt er eine Fertigstellungsfrist & Walter Bösch GmbH \& Co. KG
 		\\
 		\midrule
 		Projektleiter & Leitung des Projekts;
@@ -24,7 +24,7 @@ Die folgende Abbildung \ref{fig:organigramm} stellt die existierende, interne St
 		\\
 		\midrule
 		Projektteam-mitglieder & Zuständig für die Erstellung des Codes, Zusammenstellung und Zusammenbau der preiseffizienten Hardware & 
-		Lukas Fenkart, Damiano Pezzè, Martin Schneider
+		\fenkart, \pezze, \schneider
 		\\
 		\bottomrule
 	\end{tabular}

diff --git a/Projektmanagement.tex b/Projektmanagement.tex
@@ -1,7 +1,7 @@
 %Kapitel von Mangeng
 \ifoot{\mangeng}
 \chapter{Projektmanagement}
-Damit ein Projekt effektiv initiiert, geplant, abgeschlossen und auch kontrolliert werden kann, wird das Projektmanagement verwendet. Das tatsächliche Ziel hierbei ist es, innerhalb eines bestimmten Zeitplans das Projekt fertigzustellen, dabei die geforderte Qualität zu gewährleisten und auch die vorhandenen Ressourcen, sowohl Personal- als auch Kapitalressourcen, effektiv zu nutzen. \cite[vgl.][]{refa:o.J.}.\\
+Damit ein Projekt effektiv initiiert, geplant, abgeschlossen und auch kontrolliert werden kann, wird das Projektmanagement verwendet. Das tatsächliche Ziel hierbei ist es, innerhalb eines bestimmten Zeitplans das Projekt fertigzustellen, dabei die geforderte Qualität zu gewährleisten und auch die vorhandenen Ressourcen, sowohl Personal- als auch Kapitalressourcen, effektiv zu nutzen \cite[vgl.][]{refa:o.J.}.\\
 Damit bereits zu Beginn ein grober Überblick über das Projekt vorhanden ist, werden sogenannte Projektpläne erstellt. Die wichtigsten Pläne, welche für diese Diplomarbeit erstellt wurden, werden auf den folgenden Seiten beschrieben.
 \section{Projektzieleplan}
 \input{projektzieleplan}

diff --git a/projektzieleplan.tex b/projektzieleplan.tex
@@ -13,18 +13,18 @@ Die folgende Tabelle \ref{tab:ziele_plan} beschreibt die Haupt-, Neben- und Nich
 		\toprule
 		\textbf{Zielart} & \textbf{Projektziele} \\
 		\midrule
-		& Visualisierung der Lüftungsgerät-Werte
+		& Visualisierung der \acs{rltanlage}-Werte
 		\\
 		& Muss parametrierbar ausgeführt werden
 		\\
-		Hauptziele & Software-Schnittstelle (Zugriff mittels RS323 Schnittstelle)
+		Hauptziele & Software-Schnittstelle (Zugriff mittels \gls{gls_rs485}-Schnittstelle)
 		\\
 		& Kosten auf wirtschaftlich sinnvoller Ebene
 		\\
 		& Gehäuse IP66 geschützt 
 		\\
 		\midrule
-		& Nur Werte anzeigen, die auch vorhanden sind (Modbus)
+		& Nur Werte anzeigen, die auch vorhanden sind (\gls{modbus})
 		\\
 		& Anleitung für User und Techniker erstellen
 		\\

diff --git a/projektbalkenplan.tex b/projektbalkenplan.tex
@@ -4,7 +4,7 @@ Auf der nächsten Seite befindet sich mit Abbildung \ref{fig:projektbalkenplan} 
 \begin{landscape}
 	\begin{figure}[H]
 		\centering
-		\includegraphics[width=1\linewidth]{Bilder/ganttchart}
+		\includegraphics[width=0.9\linewidth]{Bilder/ganttchart}
 		\caption{Projektbalkenplan}
 		\label{fig:projektbalkenplan}
 	\end{figure}
